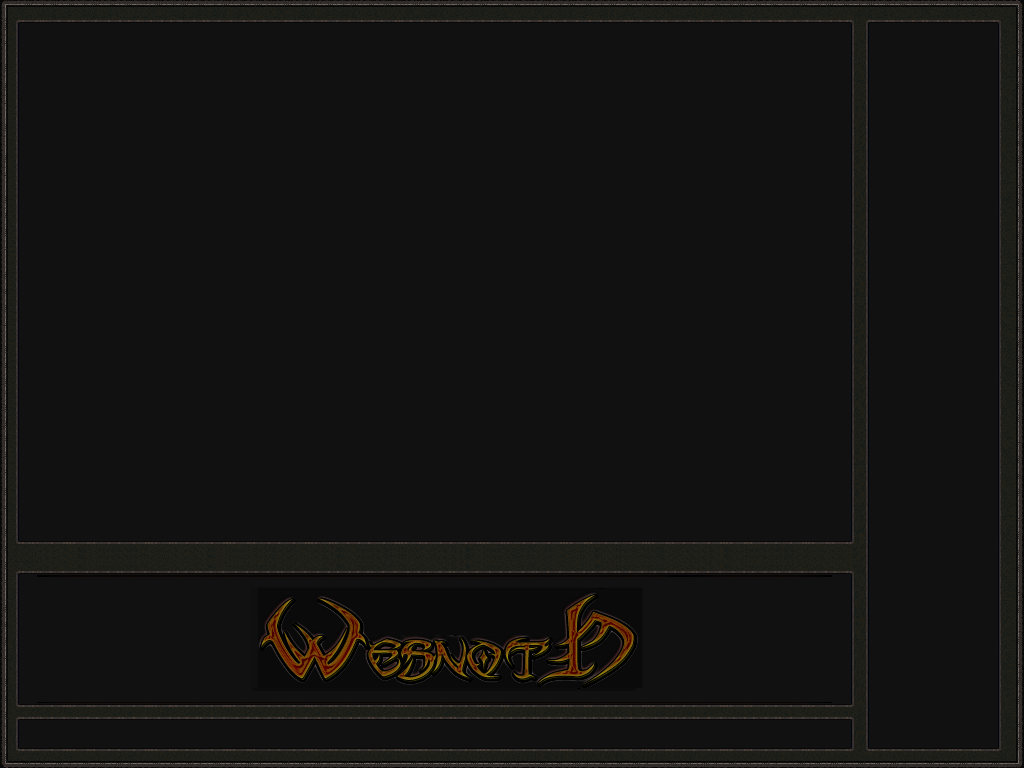
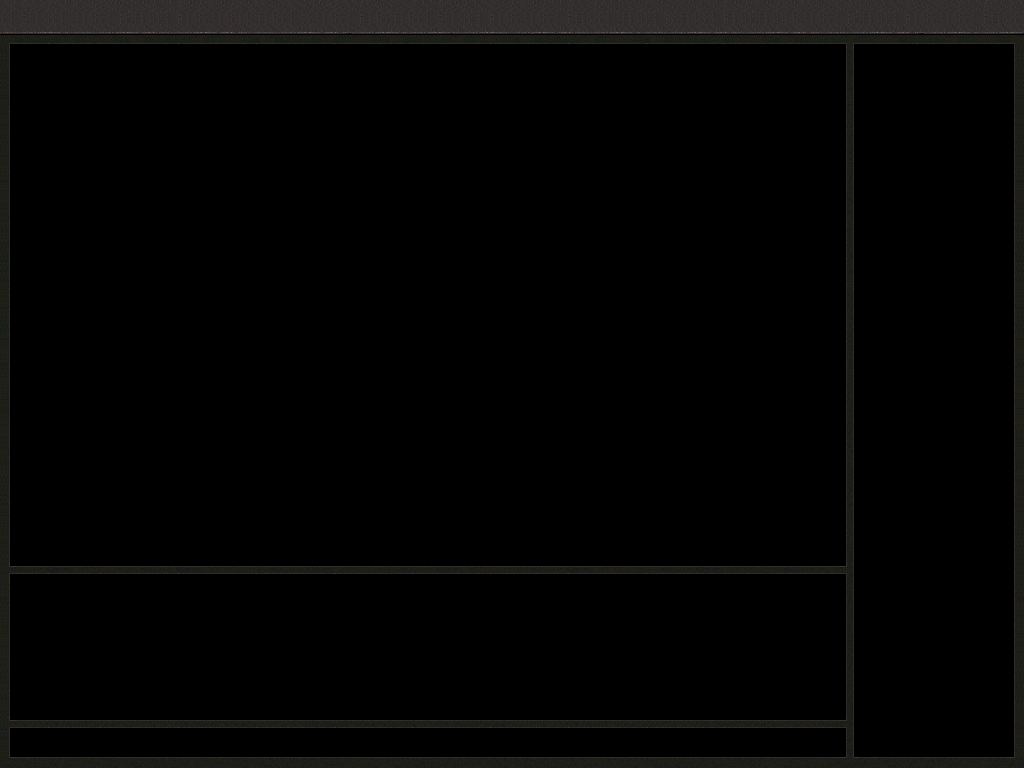
new multiplayer lobby
git-svn-id: svn+ssh://svn.gna.org/svn/wesnoth/trunk@4164 75b3775d-3801-0410-9e12-e2e43121521d

Changed region(s): [[0.0, 0.0, 1.0, 1.0]]

diff --git a/src/multiplayer_lobby.cpp b/src/multiplayer_lobby.cpp
@@ -65,7 +65,7 @@ RESULT enter(display& disp, config& game_data, const config& terrain_data, dialo
 	for(bool first_time = true; ; first_time = false) {
 		message_entry.set_focus(true);
 
-		const SDL_Rect dlg_rect = {xscale(disp,19),yscale(disp,23),xscale(disp,832),yscale(disp,520)};
+		const SDL_Rect dlg_rect = {xscale(disp,12),yscale(disp,46),xscale(disp,832),yscale(disp,518)};
 
 		//if the dialog is present, back it up before we repaint the entire screen
 		surface_restorer dlg_restorer;
@@ -78,7 +78,7 @@ RESULT enter(display& disp, config& game_data, const config& terrain_data, dialo
 		dlg_restorer.restore();
 		dlg_restorer = surface_restorer();
 
-		const SDL_Rect chat_area = { xscale(disp,19), yscale(disp,574), xscale(disp,832), yscale(disp,130) };
+		const SDL_Rect chat_area = { xscale(disp,12), yscale(disp,576), xscale(disp,832), yscale(disp,142) };
 
 		gui::textbox chat_textbox(disp,chat_area.w,"",false);
 
@@ -213,27 +213,27 @@ RESULT enter(display& disp, config& game_data, const config& terrain_data, dialo
 		gui::menu users_menu(disp,users);
 
 		// Set GUI locations
-		users_menu.set_loc(xscale(disp,869),yscale(disp,23));
-		users_menu.set_width(xscale(disp,129));
-		users_menu.set_max_width(xscale(disp,129));
+		users_menu.set_loc(xscale(disp,856),yscale(disp,46));
+		users_menu.set_width(xscale(disp,156));
+		users_menu.set_max_width(xscale(disp,156));
 
-		update_rect(xscale(disp,869),yscale(disp,23),xscale(disp,129),yscale(disp,725));
+		update_rect(xscale(disp,856),yscale(disp,46),xscale(disp,156),yscale(disp,708));
 
 		if(dlg != NULL) {
 			if(first_time) {
 				dlg->set_area(dlg_rect);
 			}
 		} else {
-			games_menu.set_loc(xscale(disp,19),yscale(disp,23));
+			games_menu.set_loc(xscale(disp,12),yscale(disp,46));
 			games_menu.set_width(xscale(disp,832));
 		}
 
-		update_rect(xscale(disp,19),yscale(disp,23),xscale(disp,832),yscale(disp,520));
-		join_game.set_location(xscale(disp,19),yscale(disp,545));
-		observe_game.set_location(join_game.location().x + join_game.location().w + 5,yscale(disp,545));
-		new_game.set_location(observe_game.location().x + observe_game.location().w + 5,yscale(disp,545));
-		quit_game.set_location(new_game.location().x + new_game.location().w + 5,yscale(disp,545));
-		message_entry.set_location(xscale(disp,19),yscale(disp,725));
+		update_rect(xscale(disp,12),yscale(disp,46),xscale(disp,832),yscale(disp,518));
+		join_game.set_location(xscale(disp,12),yscale(disp,4));
+		observe_game.set_location(join_game.location().x + join_game.location().w + 5,yscale(disp,4));
+		new_game.set_location(observe_game.location().x + observe_game.location().w + 5,yscale(disp,4));
+		quit_game.set_location(new_game.location().x + new_game.location().w + 5,yscale(disp,4));
+		message_entry.set_location(xscale(disp,12),yscale(disp,730));
 		message_entry.set_width(xscale(disp,832));
 
 		update_whole_screen();
